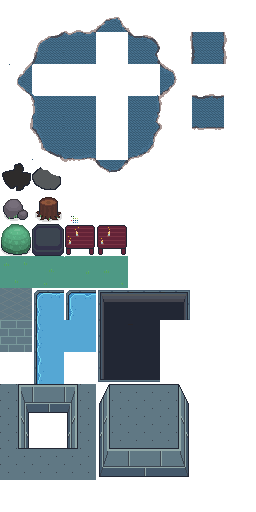
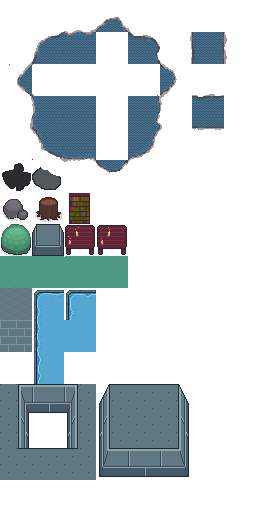
WIP: bookshelf sprite

Changed region(s): [[0.375, 0.5625, 0.75, 0.75], [0.25, 0.375, 0.375, 0.4375], [0.125, 0.4375, 0.25, 0.5]]

diff --git a/src/textures.rs b/src/textures.rs
@@ -376,6 +376,7 @@ pub enum TerrainId {
     Bush,
     Boulder2,
     TreeStump,
+    BookShelf,
     Table,
 
     NewWaterNorthWest,
@@ -531,6 +532,7 @@ pub fn terrain_atlas_area(terrain_id: TerrainId) -> (f32, Rect) {
         TerrainId::Bush => (0, 7),
         TerrainId::Boulder2 => (0, 6),
         TerrainId::TreeStump => (1, 6),
+        TerrainId::BookShelf => (2, 6),
         TerrainId::Table => (2, 7),
 
         TerrainId::Water => (2, 3),

diff --git a/src/bin/editor.rs b/src/bin/editor.rs
@@ -231,6 +231,7 @@ impl Sidebar {
             TerrainId::Bush,
             TerrainId::Boulder2,
             TerrainId::TreeStump,
+            TerrainId::BookShelf,
             TerrainId::Table,
             TerrainId::NewWaterNorthEast,
             TerrainId::StoneWallConvexNorthEast,
